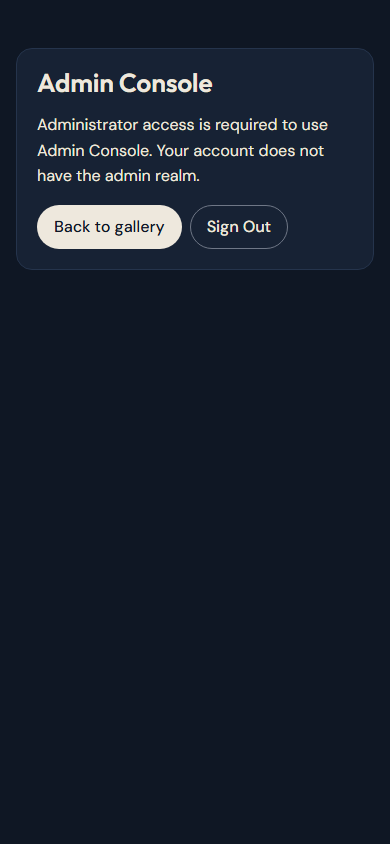
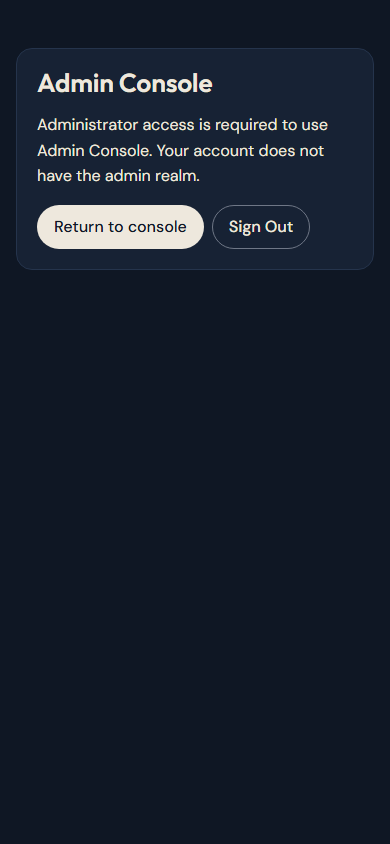
Checkpointed task T0293.

Changed region(s): [[0.1538, 0.2156, 0.8, 0.3081]]

diff --git a/tasks/T0293-add-an-admin-console-frame-with-hash-router/validation-proof.md b/tasks/T0293-add-an-admin-console-frame-with-hash-router/validation-proof.md
@@ -16,13 +16,7 @@ Exit code: `1`
 Error: Failed to resolve import "../../src/js/admin-console.js" from "tests/unit/admin-console.test.js". Does the file exist?
   Plugin: vite:import-analysis
   File: C:/Dev-Projects/support.webapp/.plan/work/T0293-add-an-admin-console-frame-with-hash-router/tests/unit/admin-console.test.js:12:8
-  10 |      displayName,
-  11 |      parseRoute
-  12 |  } from '../../src/js/admin-console.js';
-     |          ^
-  13 |  import { setSpriteUrl } from '../../src/js/icon.js';
-  14 |  import { installPopoverShim } from './popover-shim.js';
-[... 10 lines omitted ...]
+[... 14 lines omitted ...]
 
  Test Files  1 failed (1)
       Tests  no tests
@@ -52,3 +46,119 @@ Running 5 tests using 4 workers
     [desktop-light] › tests\e2e\admin-console.spec.js:148:5 › warm admin console frame and forbidden gate pass layout and target checks 
     [desktop-light] › tests\e2e\admin-console.spec.js:148:5 › bright admin console frame and forbidden gate pass layout and target checks 
 ```
+
+### Green-Phase Verification Proof
+
+Command: `python scripts/devops.py lint`
+Exit code: `0`
+
+```text
+Command: C:\Users\giova\AppData\Local\Programs\Python\Python315\Scripts\lint-markdown.EXE check --offline
+Process ID: 2752
+All 28 markdown files passed linting.
+Command: C:\Users\giova\AppData\Local\Programs\Python\Python315\python.exe -m ruff check scripts tests
+Process ID: 24692
+All checks passed!
+Command: C:\Users\giova\AppData\Local\Programs\Python\Python315\python.exe -m ruff format --check scripts tests
+Process ID: 33908
+9 files already formatted
+Command: "C:\Program Files\nodejs\npm.CMD" run lint
+Process ID: 39392
+> @gpellicciotta/support.webapp@0.4.1-pre lint
+> eslint .
+```
+
+Command: `python scripts/devops.py tests`
+Exit code: `0`
+
+```text
+Command: C:\Users\giova\AppData\Local\Programs\Python\Python315\python.exe -m pytest
+Process ID: 20080
+[... 10 lines omitted ...]
+======================== 61 passed, 1 skipped in 3.10s ========================
+Command: "C:\Program Files\nodejs\npm.CMD" test
+Process ID: 31592
+> @gpellicciotta/support.webapp@0.4.1-pre test
+> vitest run
+ RUN  v5.1.0 C:/Dev-Projects/support.webapp/.plan/work/T0293-add-an-admin-console-frame-with-hash-router
+ ✓ tests/unit/tokens.test.js (1896 tests) 924ms
+ ✓ tests/unit/admin-console.test.js (11 tests) 237ms
+ ✓ tests/unit/shell.test.js (6 tests) 21ms
+[... 54 lines omitted ...]
+ Test Files  54 passed (54)
+      Tests  2469 passed (2469)
+   Start at  03:16:06
+   Duration  16.93s (environment 53%, import 29%, tests 12%, transform 4%, worker 1%)
+```
+
+Command: `$env:T0293_CAPTURE_DIR='C:/Dev-Projects/support.webapp/.plan/tasks/T0293-add-an-admin-console-frame-with-hash-router'; npx.cmd playwright test tests/e2e/admin-console.spec.js --reporter=line`
+Exit code: `0`
+
+```text
+Running 20 tests using 4 workers
+
+[1/20] [desktop-light] › tests\e2e\admin-console.spec.js:109:1 › admin console demo shows the forbidden gate, transitions to signed-out shell, and returns cleanly
+[2/20] [desktop-light] › tests\e2e\admin-console.spec.js:47:1 › admin console demo moves between screens by hash and back button, updates marks and titles, and preserves route on skip link
+[3/20] [desktop-light] › tests\e2e\admin-console.spec.js:150:5 › neutral admin console frame and forbidden gate pass layout and target checks
+[... 14 lines omitted ...]
+[18/20] [mobile-dark] › tests\e2e\admin-console.spec.js:150:5 › neutral admin console frame and forbidden gate pass layout and target checks
+[19/20] [mobile-dark] › tests\e2e\admin-console.spec.js:150:5 › bright admin console frame and forbidden gate pass layout and target checks
+[20/20] [mobile-dark] › tests\e2e\admin-console.spec.js:150:5 › warm admin console frame and forbidden gate pass layout and target checks
+  20 passed (17.4s)
+```
+
+Command: `python scripts/devops.py check` (Playwright full e2e suite stage)
+Exit code: `0` (Playwright stage; worktree `generate-app.test.js` needed `npm ci`, verified below)
+
+```text
+[... 1412 lines omitted ...]
+  ✓  1078 [mobile-dark] › tests\e2e\view.spec.js:20:5 › sample view › shows the error page after a failed load, and Try again loads the data (1.2s)
+  1032 passed (9.0m)
+```
+
+Command: `npm.cmd run test:integration`
+Exit code: `0`
+
+```text
+> @gpellicciotta/support.webapp@0.4.1-pre test:integration
+> vitest run --config vitest.integration.config.js
+
+ RUN  v5.1.0 C:/Dev-Projects/support.webapp/.plan/work/T0293-add-an-admin-console-frame-with-hash-router
+
+ ✓ tests/integration/vendor.test.js (1 test) 7293ms
+   ✓ packs, vendors, checks offline, re-vendors, and rejects drift and bad arguments 7291ms
+ ✓ tests/integration/pack.test.js (3 tests) 1645ms
+   ✓ packs the source layout of ADR-0008 without the gallery, app icons, or repository tooling 1641ms
+ ✓ tests/integration/generate-app.test.js (3 tests) 57219ms
+   ✓ generates a neutral app that passes its own checks and the conformance check 23041ms
+   ✓ generates a warm app that passes its own checks and the conformance check 19518ms
+   ✓ generates a bright app that passes its own checks and the conformance check 14656ms
+
+ Test Files  3 passed (3)
+      Tests  7 passed (7)
+   Start at  03:14:03
+   Duration  67.15s (tests 100%)
+```
+
+Command: `npm.cmd pack --dry-run`
+Exit code: `0`
+
+```text
+> @gpellicciotta/support.webapp@0.4.1-pre prepack
+> node bin/manifest.mjs
+
+> @gpellicciotta/support.webapp@0.4.1-pre postpack
+> node bin/manifest.mjs --remove
+
+npm notice 📦  @gpellicciotta/support.webapp@0.4.1-pre
+[... 125 lines omitted ...]
+npm notice 46.8kB src/js/admin-console.js
+[... 25 lines omitted ...]
+npm notice total files: 133
+gpellicciotta-support.webapp-0.4.1-pre.tgz
+```
+
+### Visual Verification Screenshots
+- Before: [before-admin-console-neutral-desktop-light.png](before-admin-console-neutral-desktop-light.png), [before-admin-console-neutral-desktop-dark.png](before-admin-console-neutral-desktop-dark.png), [before-admin-console-neutral-mobile-light.png](before-admin-console-neutral-mobile-light.png), [before-admin-console-neutral-mobile-dark.png](before-admin-console-neutral-mobile-dark.png).
+- After (overview): [after-admin-console-overview-neutral-desktop-light.png](after-admin-console-overview-neutral-desktop-light.png), [after-admin-console-overview-warm-desktop-dark.png](after-admin-console-overview-warm-desktop-dark.png), [after-admin-console-overview-bright-mobile-light.png](after-admin-console-overview-bright-mobile-light.png), [after-admin-console-overview-bright-mobile-dark.png](after-admin-console-overview-bright-mobile-dark.png).
+- After (forbidden gate): [after-admin-console-gate-neutral-desktop-light.png](after-admin-console-gate-neutral-desktop-light.png), [after-admin-console-gate-warm-desktop-dark.png](after-admin-console-gate-warm-desktop-dark.png), [after-admin-console-gate-bright-mobile-light.png](after-admin-console-gate-bright-mobile-light.png), [after-admin-console-gate-bright-mobile-dark.png](after-admin-console-gate-bright-mobile-dark.png).

diff --git a/tasks/T0293-add-an-admin-console-frame-with-hash-router.md b/tasks/T0293-add-an-admin-console-frame-with-hash-router.md
@@ -12,8 +12,8 @@ review: agent
 preview: none
 protocol: standard
 usage:
-  worker: {turns: 1, duration_s: 1800.9, input: 366383, output: 235}
-work_duration: 1812.5
+  worker: {turns: 2, duration_s: 1852.8, input: 1193672, output: 96023, cache_read: 21937282}
+work_duration: 1888.9
 ---
 # T0293: Add an admin console frame with hash router, screen registry, and gate pages, promoted from Auth
 
@@ -31,8 +31,8 @@ Size estimate: 6 files, 220 lines.
 - [x] **[Implement]** Author failing unit and browser tests for the behavior in the technical specification.
 - [x] **[Verify]**    Run the new tests and confirm they fail for the expected reason.
 - [x] **[Implement]** Add the admin console frame, its contract entry, and a gallery or shell demo section.
-- [ ] **[Verify]**    Run the affected tests and `python scripts/devops.py check`.
-- [ ] **[Visual]**    Capture the admin console frame across looks and themes at mobile and desktop width.
+- [x] **[Verify]**    Run the affected tests and `python scripts/devops.py check`.
+- [x] **[Visual]**    Capture the admin console frame across looks and themes at mobile and desktop width.
 - [x] **[Doc]**       Update components.md, the ADRs it touches, the upgrade note for apps, and CHANGELOG.md.
 - [ ] **[Review]**    Obtain review approval of the finished work before completion.
 
@@ -45,4 +45,25 @@ Size estimate: 6 files, 220 lines.
 
 - [2026-11-24] **[Decided]**
   Chose key admin-console with createAdminConsole, attachAdminConsole, parseRoute, and displayName in src/js/admin-console.js, plus .app__gate styles in src/css/shell.css.
+
+- [2026-11-24] **[Visual]**
+  Captured before and after screenshots across neutral, warm, and bright looks in light and dark themes at 390px and 1440px.
+  - Before: [before-admin-console-neutral-desktop-light.png](T0293-add-an-admin-console-frame-with-hash-router/before-admin-console-neutral-desktop-light.png).
+  - After overview: [after-admin-console-overview-neutral-desktop-light.png](T0293-add-an-admin-console-frame-with-hash-router/after-admin-console-overview-neutral-desktop-light.png).
+  - After gate: [after-admin-console-gate-neutral-desktop-light.png](T0293-add-an-admin-console-frame-with-hash-router/after-admin-console-gate-neutral-desktop-light.png).
+
+- [2026-11-24] **[Verify]**
+  Passed lint, pytest, 2469 Vitest tests, 1032 Playwright tests, 7 integration tests, and dry-run pack; recorded task outcomes.
+  - Files touched: 6.
+  - Lines touched: 295.
+  - Reopenings: 0.
+
+- [2026-11-24] **[Read]**
+  Reviewed technical-spec.md, the Auth audit section, Auth and ToDo admin console mains, ADR-0003, ADR-0004, and naming.md.
+
+- [2026-11-24] **[Implement]**
+  Added admin-console.js, .app__gate shell styles, contract entry, unit and browser tests, and updated shell-admin-console demo and docs.
+
+- [2026-11-24] **[Verify]**
+  Confirmed red-phase failures in admin-console.test.js and admin-console.spec.js before implementation; recorded verbatim proof in validation-proof.md.
 
